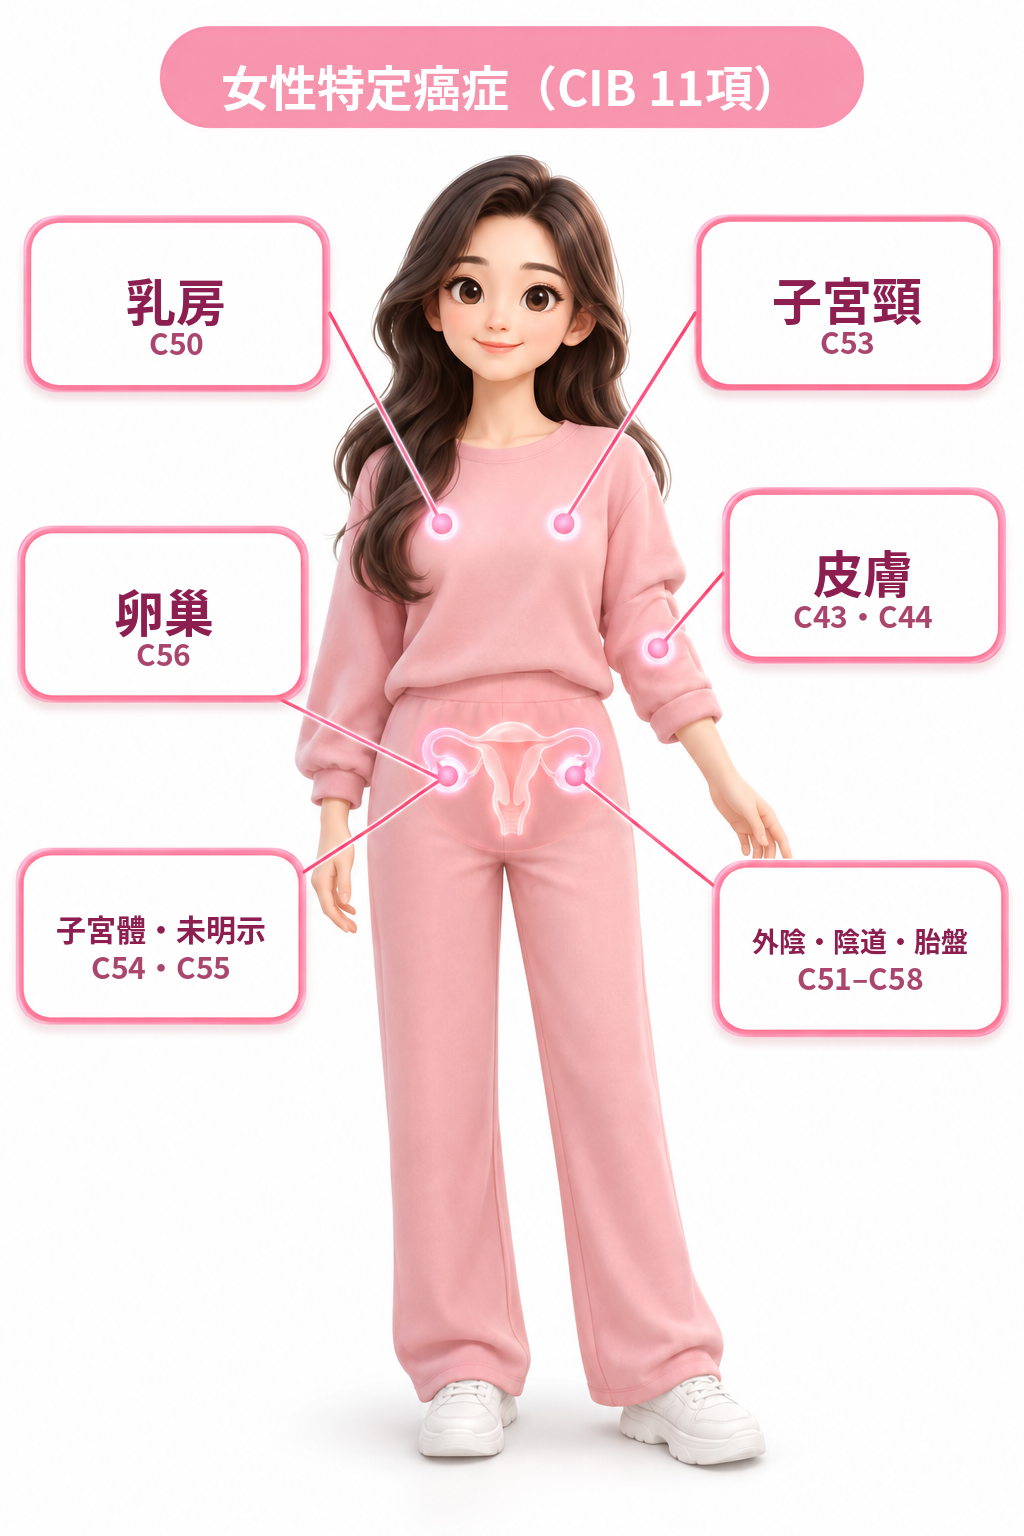
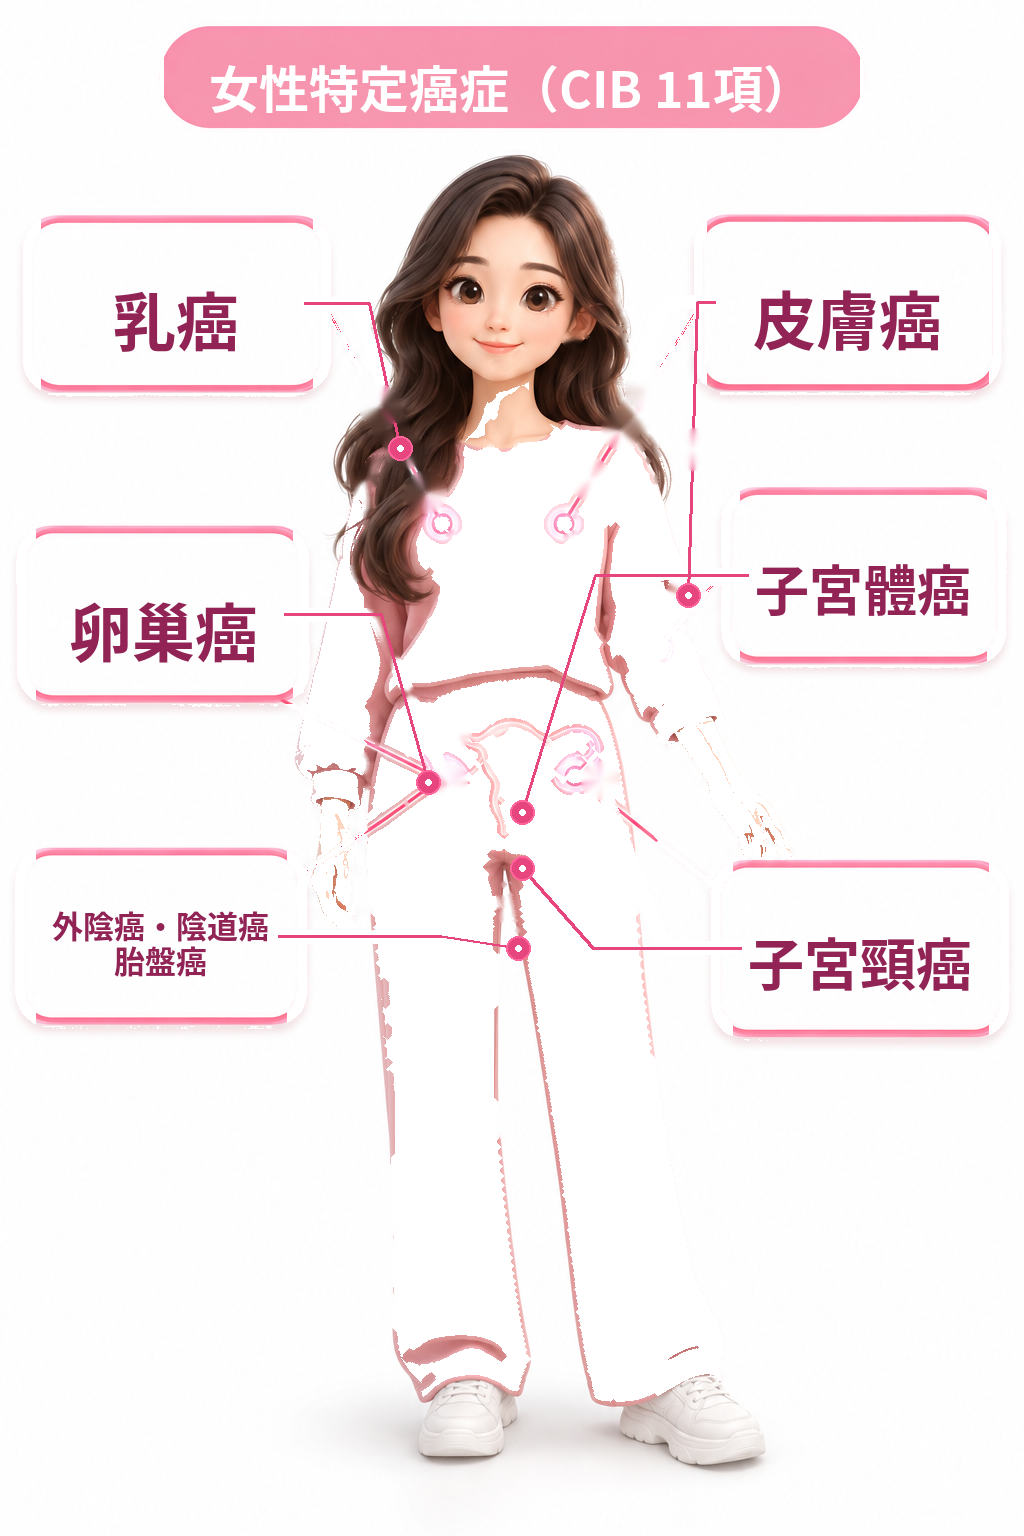
Fix body callout lines; drop ICD; add 簡介與約略費用
Redraw female/male GPT connectors to correct organs; card labels
are …癌 only. Detail panel shows short intro + sourced approximate
self-pay cost before the payout row.

diff --git a/index.html b/index.html
@@ -284,6 +284,12 @@ body.theme-cia{--cancer-accent:#1565c0}
 .detail-year .dp{display:block; font-size:clamp(12px,1.4vw,15px); font-weight:900; color:var(--cancer-accent,#1565c0); margin:2px 0}
 .detail-year .da{display:block; font-size:10.5px; font-weight:800; color:var(--ink); font-variant-numeric:tabular-nums; letter-spacing:-.02em}
 .detail-src{font-size:10px; color:#9aa6ad; line-height:1.3; margin:auto 0 0}
+
+.detail-intro{font-size:13px; font-weight:700; color:var(--ink); line-height:1.4; margin:0 0 6px}
+.detail-cost{font-size:12.5px; font-weight:800; color:var(--cancer-accent,#1565c0); margin:0 0 2px; line-height:1.35}
+.detail-cost-src{font-size:10px; color:#9aa6ad; margin:0 0 8px; line-height:1.3}
+.detail-icd{display:none}
+
 @media (max-width:699px){
   .detail-years{grid-template-columns:repeat(3,minmax(0,1fr))}
 }
@@ -502,17 +508,35 @@ const SPECIFIC_CANCERS = {
     body: 'assets/body-male.png', gptBody: 'gpt/body-male-gpt.png',
     source: 'CIA條款附表一／第十五條',
     items: [
-      {id:'c18', name:'結腸惡性腫瘤', short:'結腸癌', icd:'C18', callout:'colo'},
-      {id:'c19', name:'直腸乙狀結腸連接處惡性腫瘤', short:'直腸乙狀結腸癌', icd:'C19', callout:'colo'},
-      {id:'c20', name:'直腸惡性腫瘤', short:'直腸癌', icd:'C20', callout:'colo'},
-      {id:'c21', name:'肛門及肛(門)管惡性腫瘤', short:'肛門癌', icd:'C21', callout:'anus'},
-      {id:'c60', name:'陰莖惡性腫瘤', short:'陰莖癌', icd:'C60', callout:'penile'},
-      {id:'c61', name:'攝護腺惡性腫瘤', short:'攝護腺癌', icd:'C61', callout:'prostate'},
-      {id:'c62', name:'睪丸之惡性腫瘤', short:'睪丸癌', icd:'C62', callout:'testis'},
-      {id:'c63', name:'其他及未明示男性生殖器官之惡性腫瘤', short:'其他男性生殖器癌', icd:'C63', callout:'penile'},
-      {id:'c67', name:'膀胱惡性腫瘤', short:'膀胱癌', icd:'C67', callout:'bladder'}
+      {id:'c18', short:'結腸癌', callout:'colo',
+        intro:'大腸常見惡性腫瘤，早期常無明顯症狀。',
+        cost:'自費標靶約 每月10～30萬', costSrc:'公開藥價整理（癌思停／爾必得舒等）'},
+      {id:'c19', short:'直腸乙狀結腸癌', callout:'colo',
+        intro:'直腸與乙狀結腸交接處的惡性腫瘤。',
+        cost:'自費標靶約 每月10～30萬', costSrc:'公開藥價整理（癌思停／爾必得舒等）'},
+      {id:'c20', short:'直腸癌', callout:'colo',
+        intro:'靠近肛門的大腸惡性腫瘤，可影響排便。',
+        cost:'自費標靶約 每月10～30萬', costSrc:'公開藥價整理（癌思停／爾必得舒等）'},
+      {id:'c21', short:'肛門癌', callout:'anus',
+        intro:'肛門及肛管的惡性腫瘤，相對少見。',
+        cost:'自費標靶／免疫約 每月10～30萬', costSrc:'亞東醫院：免疫每次約5～15萬'},
+      {id:'c60', short:'陰莖癌', callout:'penile',
+        intro:'陰莖皮膚或黏膜的惡性腫瘤，相對少見。',
+        cost:'自費標靶／免疫約 每月10～30萬', costSrc:'亞東醫院：免疫每次約5～15萬'},
+      {id:'c61', short:'攝護腺癌', callout:'prostate',
+        intro:'男性常見癌症，早期常無明顯症狀。',
+        cost:'新一代口服荷爾蒙自費約 每月10萬', costSrc:'臺大泌尿部／楓城泌尿學會衛教'},
+      {id:'c62', short:'睪丸癌', callout:'testis',
+        intro:'好發於年輕男性的睪丸惡性腫瘤。',
+        cost:'自費標靶／免疫約 每月10～30萬', costSrc:'亞東醫院：免疫每次約5～15萬'},
+      {id:'c63', short:'其他男性生殖器癌', callout:'penile',
+        intro:'其他及未明示男性生殖器官惡性腫瘤。',
+        cost:'自費標靶／免疫約 每月10～30萬', costSrc:'亞東醫院：免疫每次約5～15萬'},
+      {id:'c67', short:'膀胱癌', callout:'bladder',
+        intro:'泌尿系統常見惡性腫瘤，血尿為重要警訊。',
+        cost:'自費免疫約 每次5～15萬', costSrc:'亞東醫院腫瘤科說明'}
     ],
-    callouts: [{"id": "colo", "organ": "結腸・直腸", "icd": "C18–C20", "box": {"left": 4.328, "top": 23.895, "width": 25.414, "height": 11.395}, "items": ["c18", "c19", "c20"]}, {"id": "bladder", "organ": "膀胱", "icd": "C67", "box": {"left": 4.42, "top": 42.541, "width": 25.322, "height": 11.464}, "items": ["c67"]}, {"id": "testis", "organ": "睪丸", "icd": "C62", "box": {"left": 4.328, "top": 61.188, "width": 25.506, "height": 11.395}, "items": ["c62"]}, {"id": "anus", "organ": "肛門", "icd": "C21", "box": {"left": 70.166, "top": 24.724, "width": 25.506, "height": 11.326}, "items": ["c21"]}, {"id": "prostate", "organ": "攝護腺", "icd": "C61", "box": {"left": 70.166, "top": 43.301, "width": 25.414, "height": 11.326}, "items": ["c61"]}, {"id": "penile", "organ": "陰莖・其他", "icd": "C60・C63", "box": {"left": 70.166, "top": 61.878, "width": 25.506, "height": 11.326}, "items": ["c60", "c63"]}]
+    callouts: [{"id": "colo", "organ": "大腸直腸癌", "box": {"left": 4.328, "top": 23.895, "width": 25.414, "height": 11.395}, "items": ["c18", "c19", "c20"]}, {"id": "bladder", "organ": "膀胱癌", "box": {"left": 4.42, "top": 42.541, "width": 25.322, "height": 11.464}, "items": ["c67"]}, {"id": "testis", "organ": "睪丸癌", "box": {"left": 4.328, "top": 61.188, "width": 25.506, "height": 11.395}, "items": ["c62"]}, {"id": "anus", "organ": "肛門癌", "box": {"left": 70.166, "top": 24.724, "width": 25.506, "height": 11.326}, "items": ["c21"]}, {"id": "prostate", "organ": "攝護腺癌", "box": {"left": 70.166, "top": 43.301, "width": 25.414, "height": 11.326}, "items": ["c61"]}, {"id": "penile", "organ": "陰莖癌・其他", "box": {"left": 70.166, "top": 61.878, "width": 25.506, "height": 11.326}, "items": ["c60", "c63"]}]
   },
   CIB: {
     product: '真馨守護',
@@ -522,19 +546,41 @@ const SPECIFIC_CANCERS = {
     body: 'assets/body-female.png', gptBody: 'gpt/body-female-gpt.png',
     source: 'CIB條款附表一／第十五條',
     items: [
-      {id:'c43', name:'皮膚惡性黑色素瘤', short:'惡性黑色素瘤', icd:'C43', callout:'skin'},
-      {id:'c44', name:'皮膚之其他及未明示惡性腫瘤', short:'其他皮膚惡性腫瘤', icd:'C44', callout:'skin'},
-      {id:'c50', name:'乳房惡性腫瘤', short:'乳癌', icd:'C50', callout:'breast'},
-      {id:'c51', name:'外陰惡性腫瘤', short:'外陰癌', icd:'C51', callout:'pelvic'},
-      {id:'c52', name:'陰道惡性腫瘤', short:'陰道癌', icd:'C52', callout:'pelvic'},
-      {id:'c53', name:'子宮頸惡性腫瘤', short:'子宮頸癌', icd:'C53', callout:'cervix'},
-      {id:'c54', name:'子宮體惡性腫瘤', short:'子宮體癌', icd:'C54', callout:'uterus'},
-      {id:'c55', name:'未明示部位子宮惡性腫瘤', short:'子宮惡性腫瘤', icd:'C55', callout:'uterus'},
-      {id:'c56', name:'卵巢惡性腫瘤', short:'卵巢癌', icd:'C56', callout:'ovary'},
-      {id:'c57', name:'其他及未明示女性生殖器官之惡性腫瘤', short:'其他女性生殖器癌', icd:'C57', callout:'pelvic'},
-      {id:'c58', name:'胎盤惡性腫瘤', short:'胎盤癌', icd:'C58', callout:'pelvic'}
+      {id:'c43', short:'惡性黑色素瘤', callout:'skin',
+        intro:'惡性度較高的皮膚色素細胞癌。',
+        cost:'自費免疫約 每月18～25萬', costSrc:'公開整理（免疫檢查點抑制劑月費）'},
+      {id:'c44', short:'其他皮膚惡性腫瘤', callout:'skin',
+        intro:'皮膚其他及未明示之惡性腫瘤。',
+        cost:'自費標靶／免疫約 每月10～30萬', costSrc:'亞東醫院：免疫每次約5～15萬'},
+      {id:'c50', short:'乳癌', callout:'breast',
+        intro:'台灣女性發生率最高的癌症。',
+        cost:'自費標靶／新藥約 每月10～20萬', costSrc:'中央社／病友案例（轉移新藥月費約20萬）'},
+      {id:'c51', short:'外陰癌', callout:'pelvic',
+        intro:'外陰部位的惡性腫瘤，相對少見。',
+        cost:'自費標靶／免疫約 每月10～30萬', costSrc:'亞東醫院：免疫每次約5～15萬'},
+      {id:'c52', short:'陰道癌', callout:'pelvic',
+        intro:'陰道黏膜的惡性腫瘤，相對少見。',
+        cost:'自費標靶／免疫約 每月10～30萬', costSrc:'亞東醫院：免疫每次約5～15萬'},
+      {id:'c53', short:'子宮頸癌', callout:'cervix',
+        intro:'可透過抹片與疫苗預防的婦癌。',
+        cost:'自費標靶／免疫約 每月10～30萬', costSrc:'亞東醫院：免疫每次約5～15萬'},
+      {id:'c54', short:'子宮體癌', callout:'uterus',
+        intro:'多為子宮內膜癌，常見於停經前後。',
+        cost:'部分化療／標靶須自費，一年可逾百萬', costSrc:'TVBS／癌症希望基金會病友調查'},
+      {id:'c55', short:'子宮惡性腫瘤', callout:'uterus',
+        intro:'未明示部位的子宮惡性腫瘤。',
+        cost:'部分化療／標靶須自費，一年可逾百萬', costSrc:'TVBS／癌症希望基金會病友調查'},
+      {id:'c56', short:'卵巢癌', callout:'ovary',
+        intro:'早期症狀不明顯，常較晚才發現。',
+        cost:'PARP抑制劑自費約 每月十餘萬', costSrc:'《康健》癌症專題／鄭文芳醫師'},
+      {id:'c57', short:'其他女性生殖器癌', callout:'pelvic',
+        intro:'其他及未明示女性生殖器官惡性腫瘤。',
+        cost:'自費標靶／免疫約 每月10～30萬', costSrc:'亞東醫院：免疫每次約5～15萬'},
+      {id:'c58', short:'胎盤癌', callout:'pelvic',
+        intro:'與妊娠相關的罕見惡性腫瘤。',
+        cost:'自費標靶／免疫約 每月10～30萬', costSrc:'亞東醫院：免疫每次約5～15萬'}
     ],
-    callouts: [{"id": "breast", "organ": "乳房", "icd": "C50", "box": {"left": 4.492, "top": 14.258, "width": 25.488, "height": 10.938}, "items": ["c50"]}, {"id": "ovary", "organ": "卵巢", "icd": "C56", "box": {"left": 4.004, "top": 34.505, "width": 24.023, "height": 10.938}, "items": ["c56"]}, {"id": "uterus", "organ": "子宮體・未明示", "icd": "C54・C55", "box": {"left": 4.004, "top": 55.469, "width": 23.438, "height": 10.938}, "items": ["c54", "c55"]}, {"id": "cervix", "organ": "子宮頸", "icd": "C53", "box": {"left": 69.531, "top": 14.193, "width": 26.465, "height": 10.938}, "items": ["c53"]}, {"id": "skin", "organ": "皮膚", "icd": "C43・C44", "box": {"left": 72.754, "top": 32.031, "width": 23.047, "height": 10.872}, "items": ["c43", "c44"]}, {"id": "pelvic", "organ": "外陰・陰道・胎盤", "icd": "C51–C58", "box": {"left": 72.07, "top": 56.25, "width": 23.926, "height": 11.003}, "items": ["c51", "c52", "c57", "c58"]}]
+    callouts: [{"id": "breast", "organ": "乳癌", "box": {"left": 4.492, "top": 14.258, "width": 25.488, "height": 10.938}, "items": ["c50"]}, {"id": "ovary", "organ": "卵巢癌", "box": {"left": 4.004, "top": 34.505, "width": 24.023, "height": 10.938}, "items": ["c56"]}, {"id": "pelvic", "organ": "外陰癌・陰道癌・胎盤癌", "box": {"left": 4.004, "top": 55.469, "width": 23.438, "height": 10.938}, "items": ["c51", "c52", "c57", "c58"]}, {"id": "skin", "organ": "皮膚癌", "box": {"left": 69.531, "top": 14.193, "width": 26.465, "height": 10.938}, "items": ["c43", "c44"]}, {"id": "uterus", "organ": "子宮體癌", "box": {"left": 72.754, "top": 32.031, "width": 23.047, "height": 10.872}, "items": ["c54", "c55"]}, {"id": "cervix", "organ": "子宮頸癌", "box": {"left": 72.07, "top": 56.25, "width": 23.926, "height": 11.003}, "items": ["c53"]}]
   }
 };
 const SPECIFIC_BONUS = [
@@ -869,10 +915,15 @@ function renderCancerDetail(item){
     return '<div class="detail-year"><span class="dy">'+short+'</span><span class="dp">'+totalPct+
       '%</span><span class="da">'+fmt(moneyOfPct(totalPct))+'</span></div>';
   }).join('');
+  const intro=item.intro ? '<p class="detail-intro">'+item.intro+'</p>' : '';
+  const cost=item.cost
+    ? '<p class="detail-cost">約略費用：'+item.cost+'</p>'+(item.costSrc?'<p class="detail-cost-src">'+item.costSrc+'</p>':'')
+    : '';
   box.innerHTML=
     '<div class="detail-name">'+item.short+'</div>'+
-    '<div class="detail-icd">'+item.icd+' · 保額 '+state.amount+'萬</div>'+
-    '<p class="detail-one">重度100%＋加成10%～50%</p>'+
+    intro+
+    cost+
+    '<p class="detail-one">保額 '+state.amount+'萬 · 重度100%＋加成10%～50%</p>'+
     '<div class="detail-years">'+cells+'</div>'+
     '<p class="detail-src">'+b.source+'</p>';
 }
